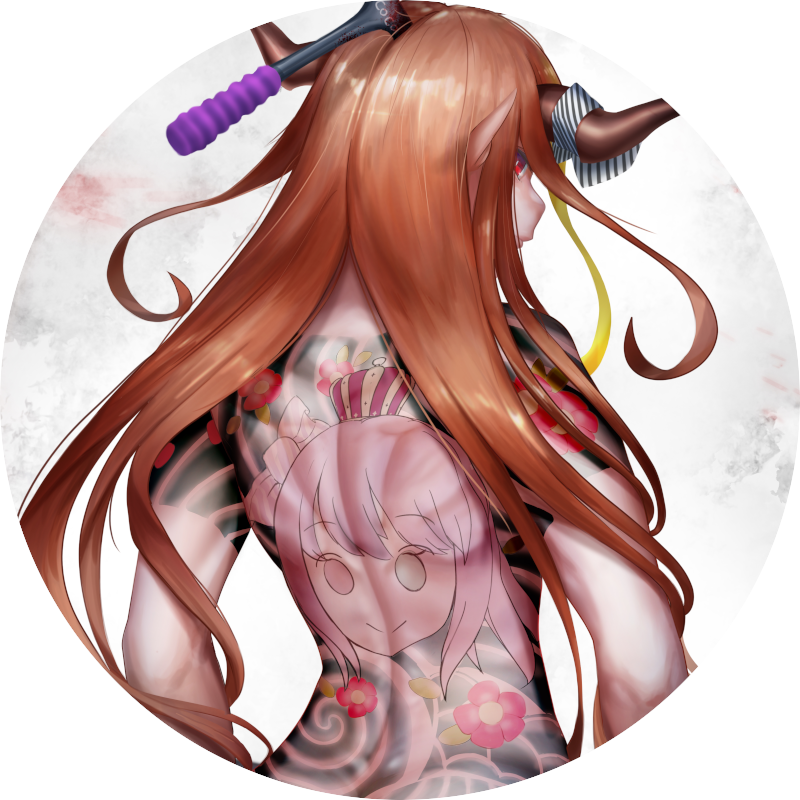
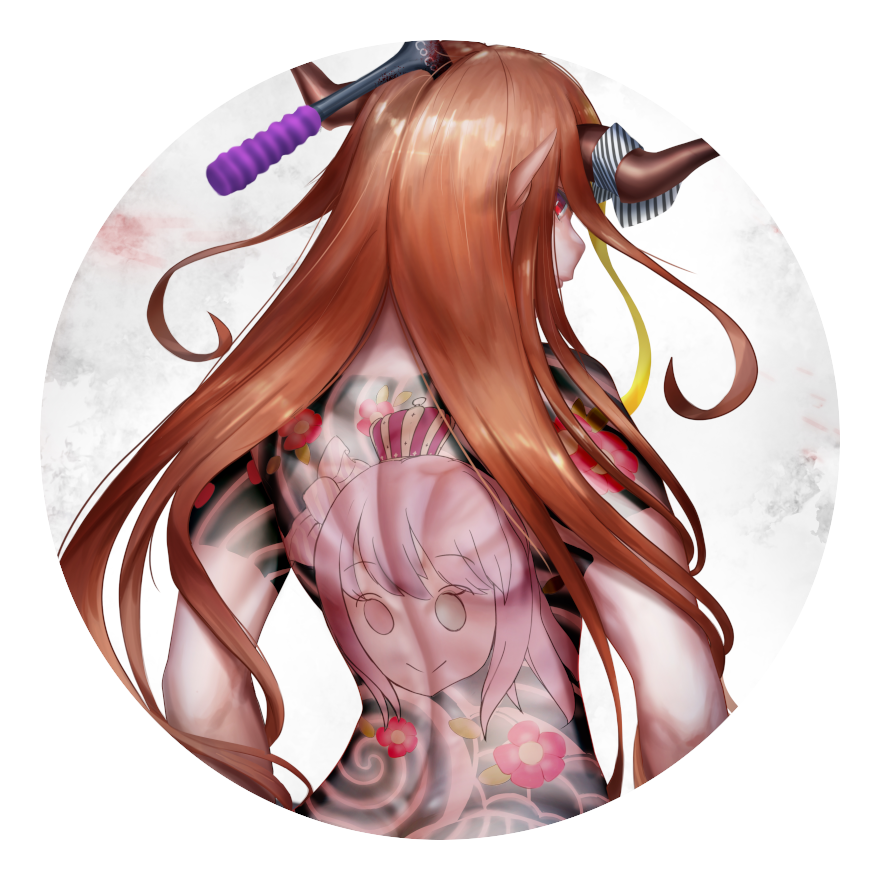
first attempt header bg parallax

diff --git a/src/App.tsx b/src/App.tsx
@@ -6,8 +6,9 @@ import { Messages } from 'components/Messages'
 import { Navbar } from 'components/Navbar'
 import { ScrollNotifier } from 'components/ScrollNotifier'
 import classNames from 'classnames'
-import cocoLuna from 'images/coco_with_luna_back_tatoo.png';
-import kanaCoco from 'images/kanata_looking_at_dragon.png';
+import cocoLuna from 'images/coco_with_luna_back_tatoo.png'
+import kanaCoco from 'images/kanata_looking_at_dragon.png'
+import { ParallaxProvider } from 'react-scroll-parallax'
 import { AssetLoader, AssetLoaderProps, LoadStatus } from 'components/AssetLoader'
 
 const preloadAssets: AssetLoaderProps['assets'] = [
@@ -17,9 +18,11 @@ const preloadAssets: AssetLoaderProps['assets'] = [
 
 export function App () {
   return (
-    <AssetLoader assets={preloadAssets}>
-      {LoadedApp}
-    </AssetLoader>
+    <ParallaxProvider>
+      <AssetLoader assets={preloadAssets}>
+        {LoadedApp}
+      </AssetLoader>
+    </ParallaxProvider>
   )
 }
 
@@ -31,18 +34,18 @@ function LoadedApp (status: LoadStatus) {
 
   return status === LoadStatus.PENDING
     ? <div>Loading!!!</div>
-    : <div className="App">
+    : <>
         <Navbar className={classNames ({
           'on-top': atTop,
           'on-messages': atMessages,
         })} />
-        <ScrollNotifier callback={setAtTop}>
-          <div id="top"></div>
-        </ScrollNotifier>
-        <Header />
-        <ScrollNotifier callback={setAtMessages}>
-          <Messages />
-        </ScrollNotifier>
-        <Credits />
-      </div>
+          <ScrollNotifier callback={setAtTop}>
+            <div id="top"></div>
+          </ScrollNotifier>
+            <Header />
+            <ScrollNotifier callback={setAtMessages}>
+              <Messages />
+              <Credits />
+            </ScrollNotifier>
+      </>
 }

diff --git a/src/styles/Header.scss b/src/styles/Header.scss
@@ -1,24 +1,38 @@
 @import './theme';
 @import './utils';
 
-#header {
-  position: relative;
-  color: $header-text-color;
-
-  #header-bg {
-    position: fixed;
+.header-bg {
+  overflow: hidden;
+  position: absolute;
+  height: 90vh;
+  top: 0;
+  width: 100%;
+  // background-image: linear-gradient(43deg, #d9a7c7 0%, #fffcdc 100%);
+  // background: center / cover url(../images/kanata_looking_at_dragon.png);
+  img {
+    position: relative;
     height: 90vh;
-    width: 100%;
-    // background-image: linear-gradient(43deg, #d9a7c7 0%, #fffcdc 100%);
-    background: center / cover url(../images/kanata_looking_at_dragon.png);
+    // margin-left: 50%;
+    // transform: translateX(-50%);
+    width: 100vw;
+    object-fit: cover;
   }
 
   #dark-overlay {
     background: rgba(0,0,0,.5);
-    position: fixed;
+    position: absolute;
+    z-index: 2;
     height: 90vh;
     width: 100%;
   }
+}
+
+#header {
+  position: relative;
+  color: $header-text-color;
+  // z-index:10;
+  height: 90vh;
+  width: 100%;
 
   #header-text-container {
     user-select: none;
@@ -37,7 +51,6 @@
   }
 
   #text-to-the-strongest {
-    position: absolute;
     position: fixed;
     -webkit-font-smoothing: subpixel-antialiased;
     backface-visibility: hidden;
@@ -48,7 +61,6 @@
   }
 
   #text-luknight {
-    position: absolute;
     position: fixed;
     -webkit-font-smoothing: subpixel-antialiased;
     backface-visibility: hidden;

diff --git a/src/components/Credits.tsx b/src/components/Credits.tsx
@@ -21,7 +21,7 @@ export function Credits () {
 
     <div id="credits">
       {credits
-        .map ((cont, cat) => <Credit category={cat} content={cont} />)
+        .map ((cont, cat) => <Credit key={cat} category={cat} content={cont} />)
         .toList ()}
     </div>
 
@@ -47,8 +47,8 @@ function Credit ({category, content}: CreditProps) {
     >
       <div className="credit-category">{category}</div>
 
-      {content.map (credit => (
-        <div className="credit-one-person">
+      {content.map ((credit, i) => (
+        <div className="credit-one-person" key={i}>
           <div className="credit-name">
             {credit.url ? <a href={credit.url}>
                             {credit.icon &&
@@ -66,9 +66,9 @@ function Credit ({category, content}: CreditProps) {
 
           {credit.artworks && credit.artworks.length > 0 &&
             <div className="credit-artworks">
-              {credit.artworks!.map (artwork => (
-                <div className="credit-artwork">
-                  <a href={artwork.url}>{artwork.title}</a>
+              {credit.artworks!.map (({url, title}) => (
+                <div className="credit-artwork" key={url}>
+                  <a href={url}>{title}</a>
                 </div>
               ))}
             </div>

diff --git a/src/components/Header.tsx b/src/components/Header.tsx
@@ -3,6 +3,8 @@ import 'styles/Header.scss'
 import { useInView } from 'react-intersection-observer'
 import { useSpring, animated } from 'react-spring'
 import { configs, anims } from 'utils/springs'
+import { Parallax } from 'react-scroll-parallax'
+import kanataLookingAtDragon from 'images/kanata_looking_at_dragon.png'
 
 export function Header () {
   const [ref, inView] = useInView ({ threshold: .95, initialInView: true })
@@ -15,13 +17,16 @@ export function Header () {
 
   const fade = useSpring ({
     ...(inView ? anims.fadeIn : anims.fadeOut),
-    config: configs.shortEaseOut
+    config: configs.veryShortEaseOut
   })
 
-  return (
+  return (<>
     <div id="header" ref={ref}>
-      <div id="header-bg"></div>
+    <Parallax className="header-bg" y={[-75, 60]} >
       <animated.div id="dark-overlay" style={fade}></animated.div>
+      <img src={kanataLookingAtDragon} alt="" />
+      {/*<div id="header-bg"></div>*/}
+    </Parallax>
       <div id="cocoTatooContainer">
         <div id="cocoTatooCircle">
           <animated.div style={fade}>
@@ -43,5 +48,5 @@ export function Header () {
         </div>
       </div>
     </div>
-  )
+  </>)
 }

diff --git a/src/styles/Credits.scss b/src/styles/Credits.scss
@@ -1,6 +1,7 @@
 @import './theme';
 
 #credit-wrapper {
+  overflow-x: hidden;
   position: relative;
   z-index: 3;
   background: white;
@@ -16,13 +17,20 @@
   #credits {
     width: 100%;
     max-width: 1060px;
-    margin: 0 auto 100px;
+    margin: 0 auto -130px;
     text-align: center;
     display: flex;
     flex-wrap: wrap;
     justify-content: space-around;
     position: relative;
     z-index: 2;
+
+    @media (max-width: 1000px) {
+      margin-bottom: -200px;
+    }
+    @media (max-width: 900px) {
+      margin-bottom: -150px;
+    }
 
     .credit-block {
       width: 300px;
@@ -69,7 +77,6 @@
   background: center bottom / contain no-repeat url(../images/coco_looking_at_horizon.png);
   width: 100%;
   max-width: 1400px;
-  margin: -200px 0;
   height: auto;
   min-height: 350px;
   position: relative;

diff --git a/src/components/AssetLoader.tsx b/src/components/AssetLoader.tsx
@@ -15,11 +15,11 @@ export function AssetLoader (props: AssetLoaderProps)  {
        props.assets.map (asset => [asset.href, undefined])
     )
 
-    const links = props.assets.map (({href, as}, i) => <link
+    const links = props.assets.map (({href, as}) => <link
       rel="preload"
       href={href}
       as={as}
-      key={i}
+      key={href}
       onLoad={ () => setLoads (prevState => ({ ...prevState, [href]: true,  }))}
       onError={() => setLoads (prevState => ({ ...prevState, [href]: false, }))}
     />)

diff --git a/src/components/Messages.tsx b/src/components/Messages.tsx
@@ -6,11 +6,12 @@ import 'styles/Messages.scss'
 export function Messages () {
   return (
     <div id="messages">
-      {messages.map (msg => (
+      {messages.map ((msg, i) => (
         <Message
           content={msg.content}
           signature={msg.signature}
           imageUrl={msg.imageUrl}
+          key={i}
         />
       ))}
     </div>

diff --git a/src/utils/springs.ts b/src/utils/springs.ts
@@ -14,6 +14,11 @@ export const configs = {
     tension: 800,
     friction: 120,
     mass: .6,
+  },
+  veryShortEaseOut: {
+    tension: 800,
+    friction: 120,
+    mass: .6,
   }
 }
 
